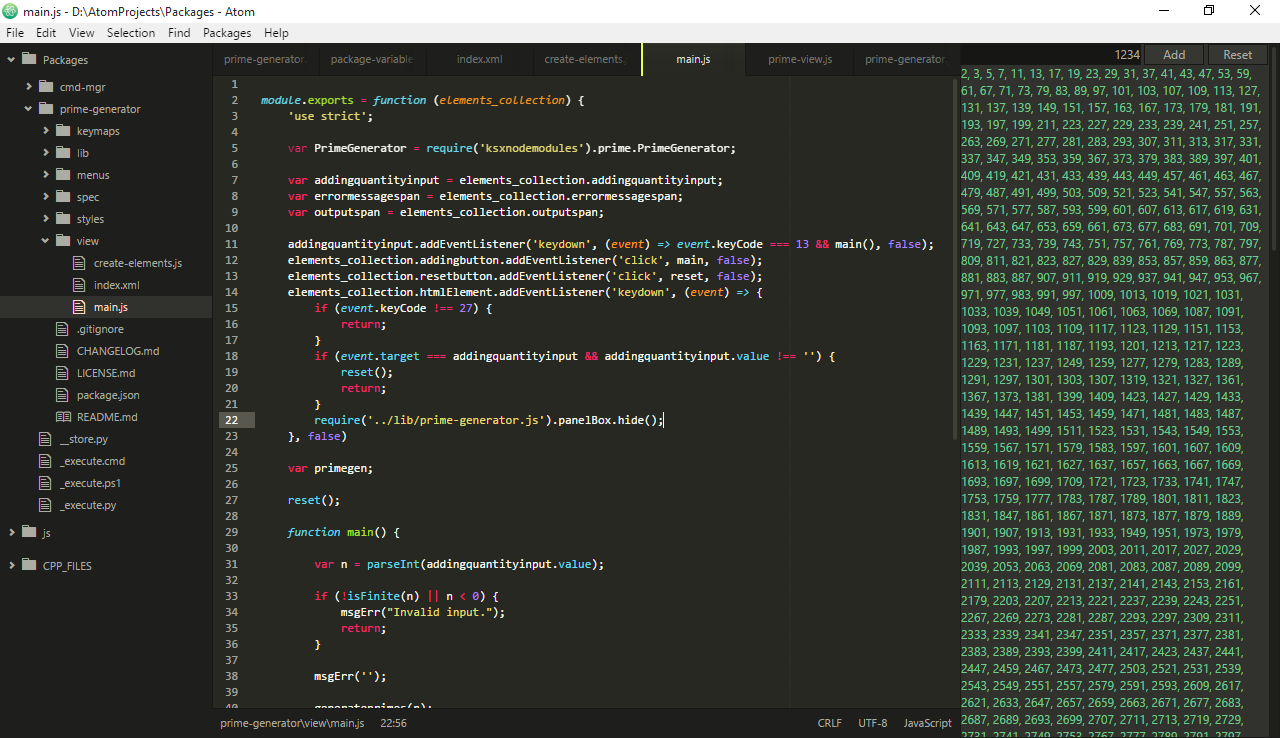
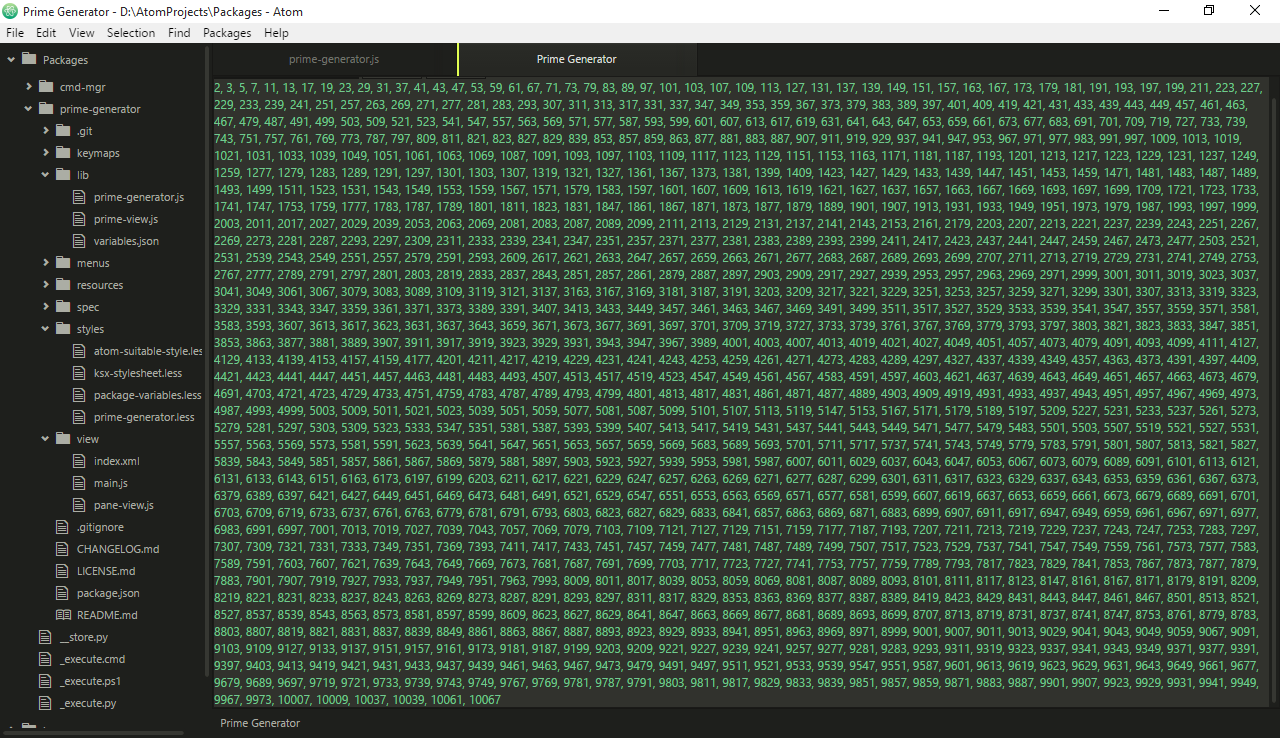
changed almost everything

Changed region(s): [[0.0, 0.0623, 1.0, 1.0], [0.0, 0.0, 0.25, 0.0312], [0.625, 0.9661, 0.6562, 0.9973]]

diff --git a/view/pane-view.js b/view/pane-view.js
@@ -1,0 +1,116 @@
+
+module.exports = new (function () {
+	'use strict';
+
+	var readFileSync = require('fs').readFileSync;
+	var utilities = require('ksxnodemodules').utilities;
+	var variables = require('../lib/variables.json');
+	var main = require('./main.js');
+
+	var texttittle = variables.text.title;
+	var numbertabwidth = variables.number.tabWidth;
+	var openuri = variables.uri.open;
+
+	var self = this;
+
+	var domparser = new DOMParser();
+
+	var viewProviderDisposable = atom.views.addViewProvider(PaneView, (pane) => {
+		var htmlContent = readFileSync(__dirname + '/index.xml');
+		var htmlDocument = domparser.parseFromString(htmlContent, 'text/xml');
+		var htmlElement = htmlDocument.documentElement;
+		pane.response = new main(new ElementSet(htmlElement));
+		return htmlElement;
+	})
+
+	var openerDisposable = atom.workspace.addOpener((uri) => {
+
+		if (uri !== openuri) {
+			return;
+		}
+
+		return new PaneView();
+
+	});
+
+	utilities
+		.setMethod
+			(self, "open", open)
+			(self, "PaneView", PaneView)
+		.setConst
+			(self, "viewProviderDisposable", viewProviderDisposable)
+			(self, "openerDisposable", openerDisposable)
+	;
+
+	function open() {
+		atom.workspace.open(openuri).then((view) => view.response.reset());
+	}
+
+	var pane;
+
+	function PaneView() {
+
+		if (pane) {
+			return pane;
+		}
+
+		pane = this;
+
+		Object.getOwnPropertyNames(PaneView.prototype).forEach(makePropertyGetter.bind(null, pane));
+
+	}
+
+	((proto) => {
+		proto.title = texttittle;
+		proto.tabWidth = numbertabwidth;
+	})(PaneView.prototype);
+
+	function makePropertyGetter(object, pname) {
+		object["get" + pname[0].toUpperCase() + pname.slice(1)] = () => object[pname];
+	}
+
+	function ElementSet(element) {
+		var set = this;
+		(function make(element) {
+			var id = element.id;
+			if (id) {
+				set[id] = element;
+			}
+			iterateArray(element.children, make);
+		})(element);
+	}
+
+	var iterateArray = Function.call.bind(Array.prototype.forEach);
+
+})();
+
+// module.exports = function () {
+// 	'use strict';
+// 	return atom.workspace.open(__dirname + '/index.xml');
+// 	// return atom.workspace.open(__dirname + '/index.xml')
+// }
+
+// function main(out) {
+// 	'use strict';
+//
+// 	out.open
+//
+// 	// var readFileSync = require('fs').readFileSync;
+// 	// var htmlContent = readFileSync(__dirname + '/index.xml', 'utf8');
+// 	// var domparser = new DOMParser();
+// 	// var element = domparser.parseFromString(htmlContent, 'text/xml').documentElement;
+//
+// 	// var iterateArray = Function.call.bind(Array.prototype.forEach);
+//
+// 	// exportElementById(element);
+// 	// function exportElementById(element) {
+// 	// 	var id = element.id;
+// 	// 	if (id) {
+// 	// 		elements_collection[id] = element;
+// 	// 	}
+// 	// 	iterateArray(element.children, exportElementById);
+// 	// }
+//
+// }
+//
+// main(exports);

diff --git a/lib/prime-generator.js b/lib/prime-generator.js
@@ -8,28 +8,25 @@ function Main() {
 
 	Object.assign(self, {
 	  primeGenView: null,
-	  panelBox: null,
+	  view: null,
 	  subscriptions: null,
 	  activate: activate,
 	  deactivate: deactivate,
 	  serialize: serialize,
-	  toggle: toggle
+	  open: open
 	});
 
 	function activate(state) {
 	  var primeview = self.primeGenView = new PrimeView(state.primeGenViewState);
-	  self.panelBox = atom.workspace.addRightPanel({
-	    item: self.primeGenView.getElement(),
-	    visible: false
-	  });
+	  open();
 	  var subscriptions = self.subscriptions = new CompositeDisposable();
 	  return subscriptions.add(atom.commands.add('atom-workspace', {
-	    'prime-generator:toggle': toggle
+	    'prime-generator:open': open
 	  }));
 	}
 
 	function deactivate() {
-		self.panelBox.destroy();
+		self.view.destroy();
 		self.subscriptions.dispose();
 		self.primeGenView.destroy();
 	}
@@ -40,9 +37,8 @@ function Main() {
 	  }
 	}
 
-	function toggle() {
-		var panelBox = self.panelBox;
-		panelBox[panelBox.isVisible() ? "hide" : "show"]();
+	function open() {
+		self.primeGenView.open();
 	}
 }
 

diff --git a/lib/prime-view.js b/lib/prime-view.js
@@ -2,25 +2,19 @@
 function main(out) {
 	'use strict';
 
-	var ksxnodemodules = require('ksxnodemodules');
-	var elements_collection = require('../view/create-elements.js');
-	require('../view/main.js')(elements_collection);
-
-	var utilities = ksxnodemodules.utilities;
-	var PrimeGenerator = ksxnodemodules.prime.PrimeGenerator;
-
-	var n = 20;
+	var utilities = require('ksxnodemodules').utilities;
+	var pane_view = require('../view/pane-view.js');
 
 	class PrimeView {
 
 		constructor(serializedState) {
-			var element = this.element = elements_collection.htmlElement;
+			var self = this;
 			utilities
 				.setMethod
-					(this, "serialize", () => {})
-					(this, "getElement", () => element)
+					(self, "open", pane_view.open)
 				.setConst
-					(this, "destroy", element.remove.bind(element))
+					(self, "serialize", () => {})
+					(self, "destroy", () => {})
 			;
 		}
 

diff --git a/styles/package-variables.less b/styles/package-variables.less
@@ -1,5 +1,5 @@
 
 @package: ~'.prime-generator';
-@site-width: 320px;
+@site-width: inherit;
 @site-button-width: 60px;
-@site-input-width: @site-width - (2 * @site-button-width) - 20px;
+@site-input-width: inherit;

diff --git a/view/main.js b/view/main.js
@@ -26,6 +26,8 @@ module.exports = function (elements_collection) {
 
 	reset();
 
+	this.reset = reset;
+
 	function main() {
 
 		var n = parseInt(addingquantityinput.value);

diff --git a/README.md b/README.md
@@ -34,15 +34,15 @@ git clone https://github.com/ksxnodemodules/ksxnodemodules.git
 
 ## User Manual
 
-### Open/Close Prime Generator panel
-After you open/restart your Atom, there're 2 ways to toggle the panel:
-1. In menu-bar, go to Packages &#x2192; prime-generator &#x2192; Toggle.
-2. Open Command Palettle (by pressing <kbd>Ctrl</kbd> + <kbd>Shift</kbd> + <kbd>P</kbd>), then enter `Prime Generator: Toggle`.
+### Open/Close Prime Generator tab
+After you open/restart your Atom, there're 2 ways to open the tab:
+1. In menu-bar, go to Packages &#x2192; prime-generator &#x2192; Open.
+2. Open Command Palettle (by pressing <kbd>Ctrl</kbd> + <kbd>Shift</kbd> + <kbd>P</kbd>), then enter `Prime Generator: Open`.
 
 ### User Interface
  - Input box: Representing amount of primes would be printed.
   - Hit <kbd>Enter</kbd> to print prime numbers.
-  - Hit <kbd>ESC</kbd> to clear reset (if the box was not empty) or close the panel (if the box was empty).
+  - Hit <kbd>ESC</kbd> to clear reset (if the box was not empty) or close the tab (if the box was empty).
  - Buttons
   - Add: Print more an amount of primes which was represented by value in the input box.
   - Reset: Clear the input box, reset output.
